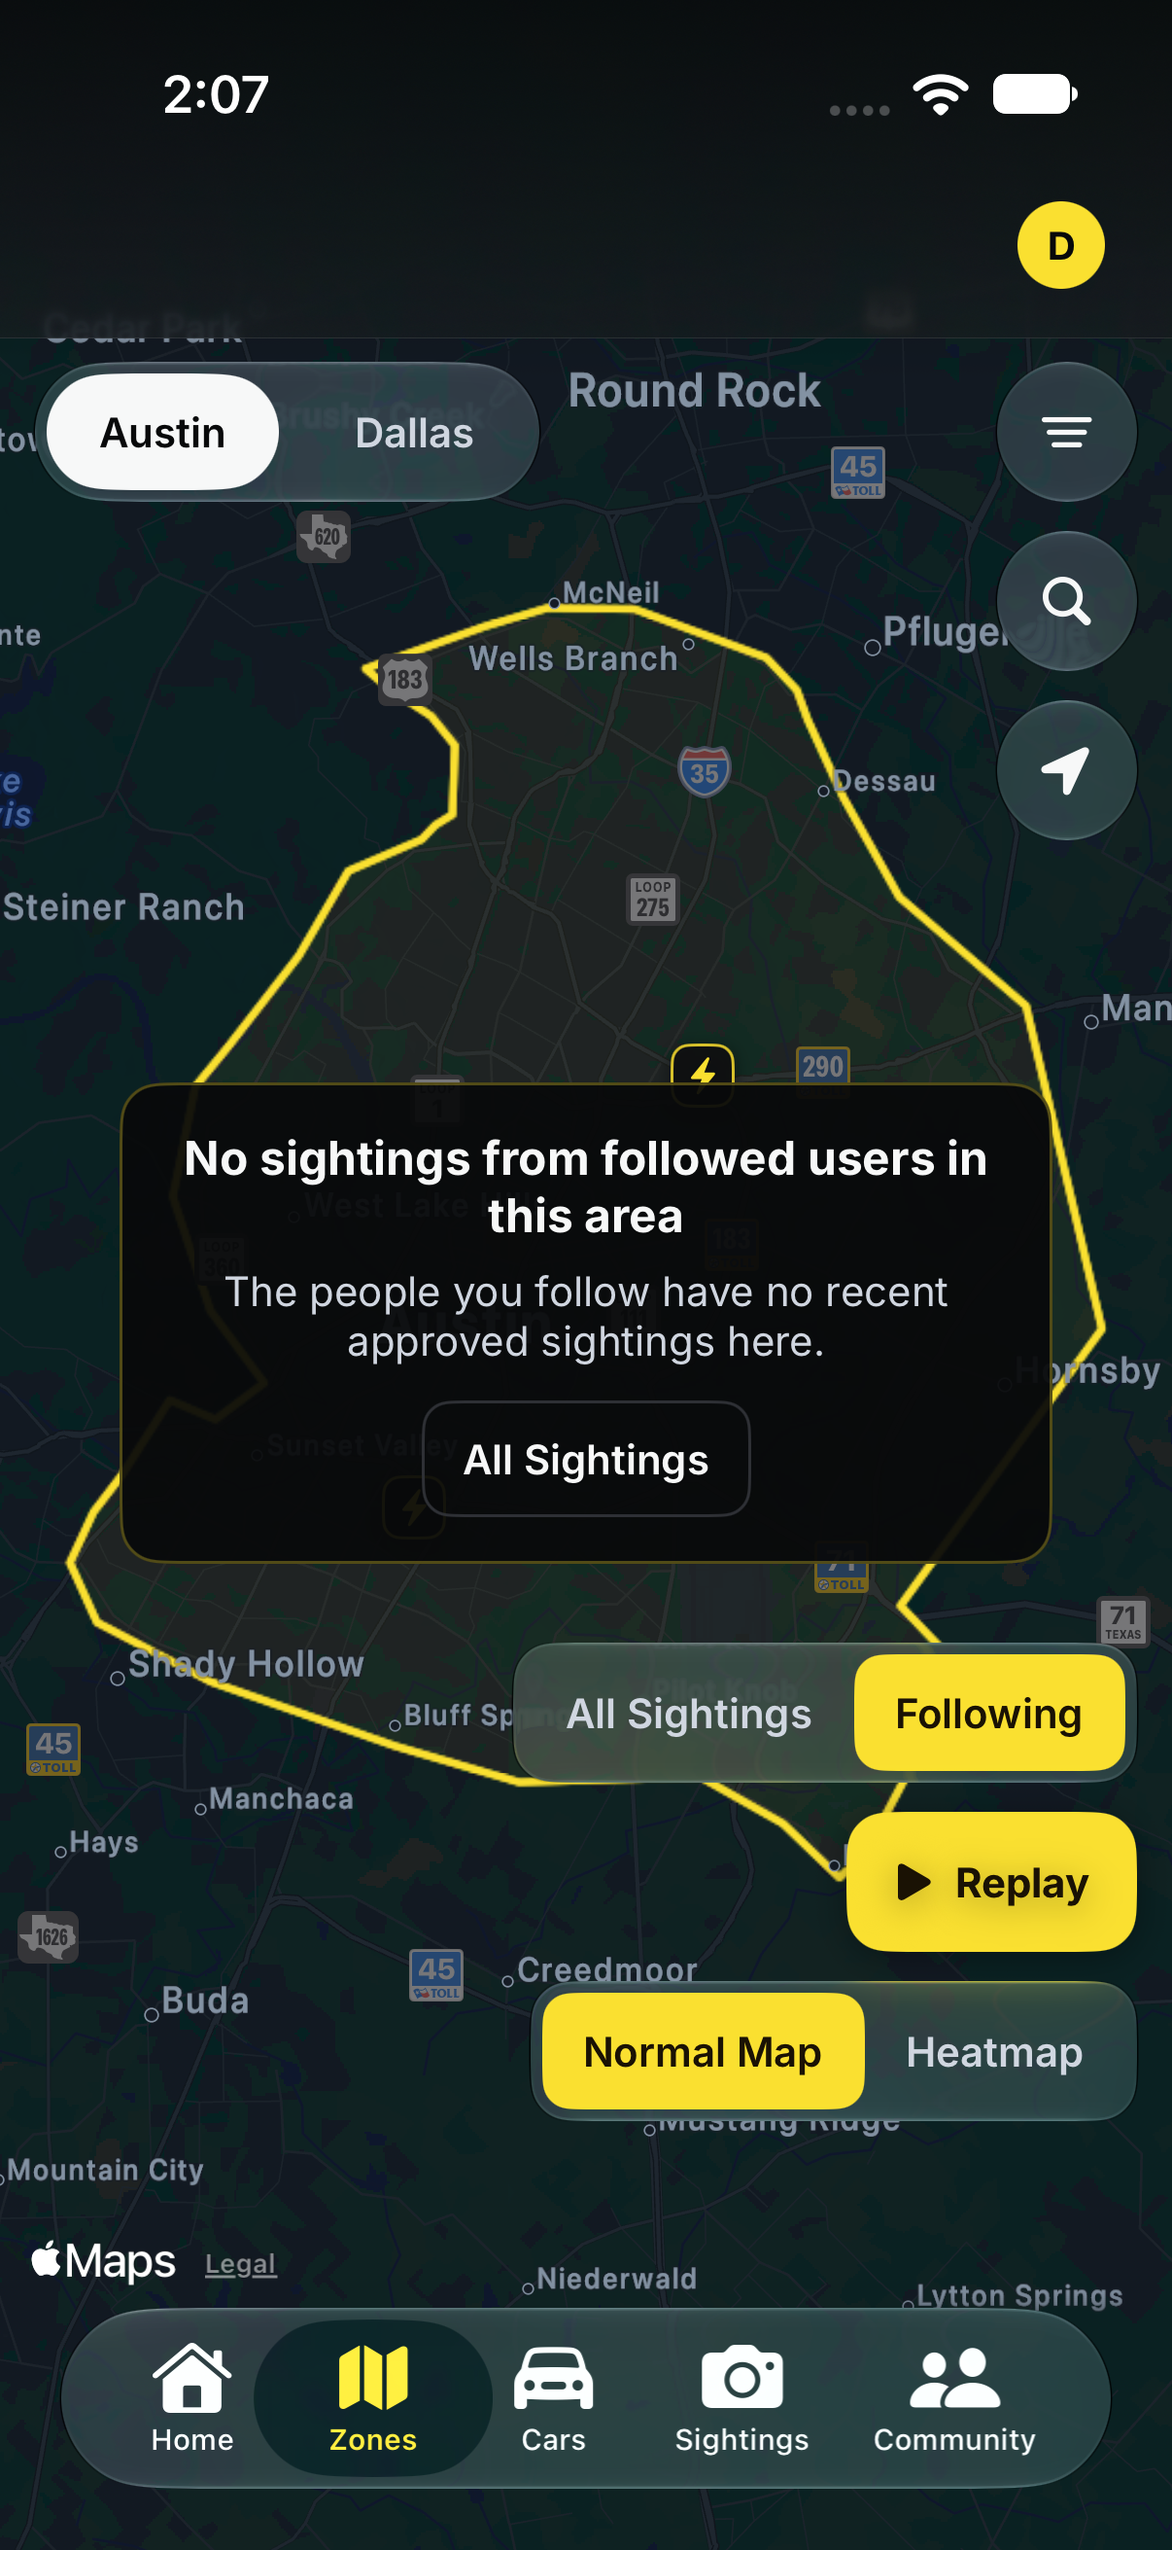
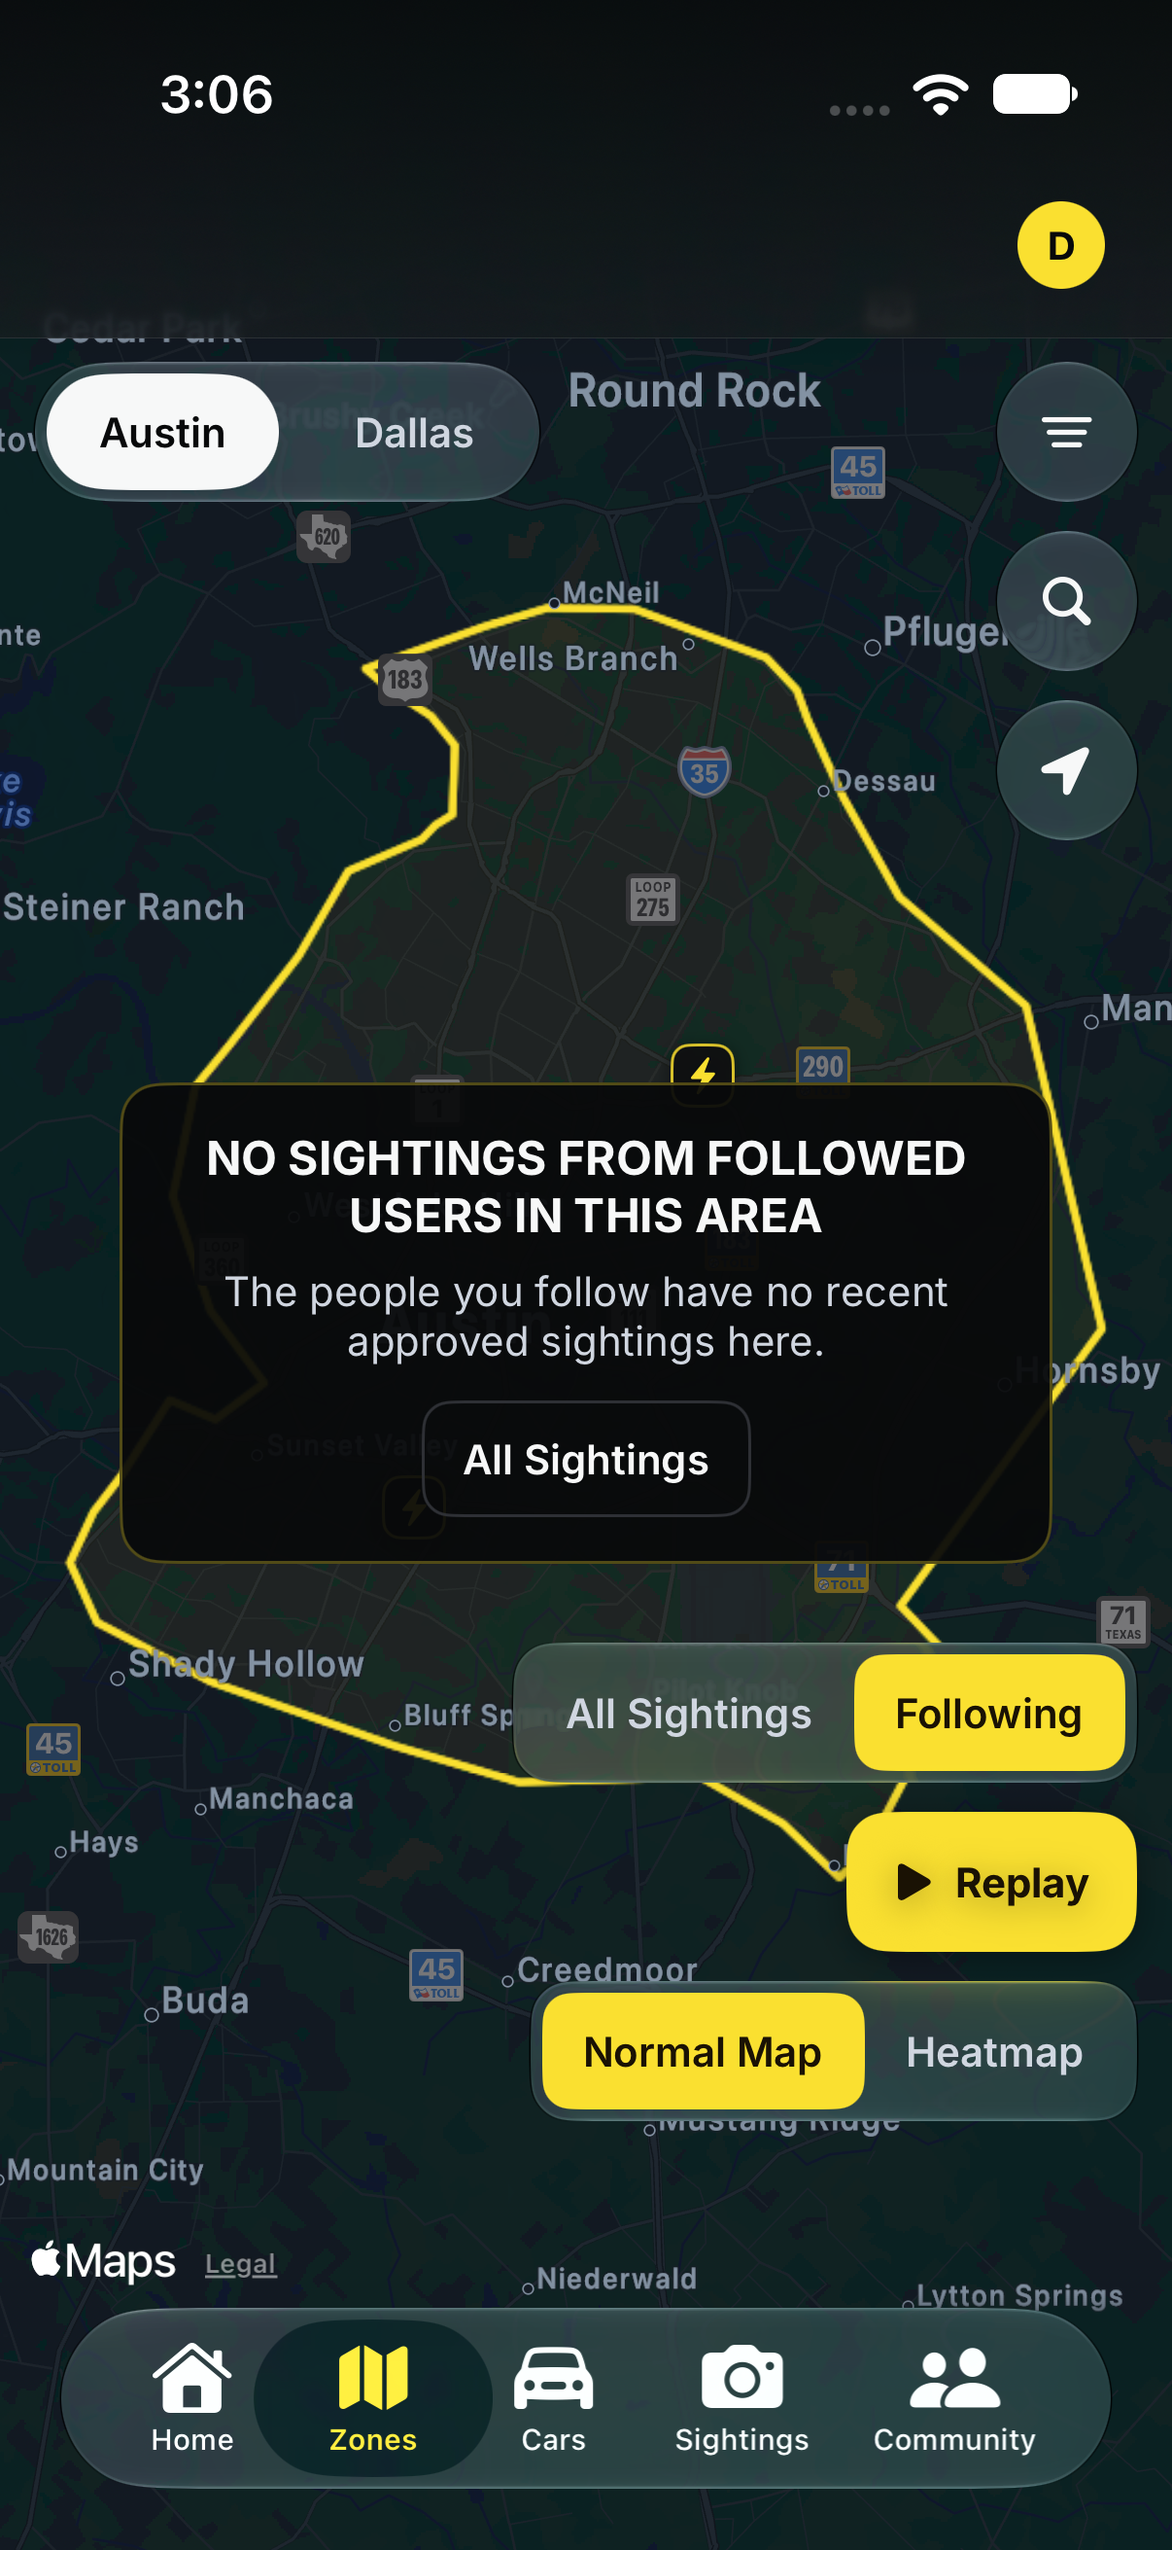
Zones map: one row of controls in the app; all-caps Following headings
All Sightings | Following | Heatmap is now one control beside a compact Replay
button in the iOS app. NO FOLLOWED SPOTTERS YET and NO SIGHTINGS FROM FOLLOWED
USERS IN THIS AREA are in capitals on the website and in the app.

Changed region(s): [[0.1534, 0.4325, 0.8284, 0.4943], [0.1534, 0.0309, 0.2454, 0.0618]]

diff --git a/ios-native/CybercabHunter/Features/Zones/ZonesView.swift b/ios-native/CybercabHunter/Features/Zones/ZonesView.swift
@@ -37,7 +37,7 @@ struct ZonesView: View {
             ZStack(alignment: .top) {
                 ZoneMapView(cityKey: model.city, heatMode: model.mode == .heat, liveDetections: model.source == .following ? [] : (model.live[model.city] ?? []), followingSpots: model.followingSpots,
                             heatPoints: model.heatPoints, cameraDots: model.cameraDots, place: place, locationFix: location.location, recenterID: recenterID, locationTarget: locationTarget,
-                            bottomInset: model.mode == .heat ? (heatExpanded ? 230 : 140) : 130,
+                            bottomInset: model.mode == .heat ? (heatExpanded ? 230 : 140) : 90,
                             topInset: geo.safeAreaInsets.top + 52, selectionActive: selection != nil) { selection = $0 }   // under the status bar, header and the Search button
                     .ignoresSafeArea()
                     .accessibilityIdentifier("zonesMap")
@@ -212,28 +212,6 @@ struct ZonesView: View {
         }
     }
 
-    /// All Sightings | Following: the Normal Map only (a heatmap is camera history).
-    private var sourceToggle: some View {
-        HStack(spacing: 0) {
-            ForEach(ZonesModel.Source.allCases) { option in
-                let on = model.source == option
-                Button { withAnimation(.snappy) { model.source = option } } label: {
-                    Text(option == .all ? "All Sightings" : "Following").font(.inter(13.5, .semibold))
-                        .padding(.horizontal, 14).frame(height: MapControl.height - 8)
-                        .foregroundStyle(on ? Color(hex: 0x1A1204) : Color.chMist)
-                        .background(on ? Color.brandGold : Color.clear, in: .rect(cornerRadius: MapControl.radius - 4))
-                        .contentShape(Rectangle())
-                }
-                .buttonStyle(.plain)
-                .accessibilityAddTraits(on ? .isSelected : [])
-                .accessibilityIdentifier(option == .all ? "mapSourceAll" : "mapSourceFollowing")
-            }
-        }
-        .padding(4)
-        .modifier(GlassBackground(shape: RoundedRectangle(cornerRadius: MapControl.radius)))
-        .sensoryFeedback(.selection, trigger: model.source)
-    }
-
     /// What Following has to say when there is nothing, or something missing, to draw.
     @ViewBuilder private var followingOverlay: some View {
         switch model.following {
@@ -249,11 +227,11 @@ struct ZonesView: View {
             }
         case .loaded(let page):
             if page.followingCount == 0 {
-                followingCard(title: "No followed spotters yet", text: "Follow other Cybercab spotters to see their sightings on this map.") {
+                followingCard(title: "NO FOLLOWED SPOTTERS YET", text: "Follow other Cybercab spotters to see their sightings on this map.") {
                     Button("Find spotters") { router.openCommunity(.leaderboard) }.buttonStyle(ZoneCardButton(gold: true)).accessibilityIdentifier("followingFindSpotters")
                 }
             } else if page.sightings.isEmpty {
-                followingCard(title: "No sightings from followed users in this area",
+                followingCard(title: "NO SIGHTINGS FROM FOLLOWED USERS IN THIS AREA",
                               text: page.unplaced.isEmpty ? "The people you follow have no recent approved sightings here."
                                 : "\(Format.plural(page.unplaced.count, "recent sighting has", "recent sightings have")) no map position, so nothing is shown here.") { EmptyView() }
             } else if !page.unplaced.isEmpty {
@@ -263,7 +241,7 @@ struct ZonesView: View {
                         .font(.inter(12, .medium)).foregroundStyle(Color.chMist)
                         .padding(.horizontal, 12).padding(.vertical, 7)
                         .background(Color.chBackground.opacity(0.92), in: .capsule)
-                        .padding(.bottom, 190)
+                        .padding(.bottom, 130)
                 }
                 .allowsHitTesting(false)
                 .accessibilityIdentifier("followingUnplacedNote")
@@ -292,39 +270,78 @@ struct ZonesView: View {
         .accessibilityIdentifier("followingEmptyCard")
     }
 
+    /// One choice, on one row with Replay: All Sightings (the normal map), Following
+    /// (the normal map, from followed accounts) or Heatmap (camera history).
+    private enum MapView: CaseIterable, Identifiable {
+        case all, following, heat
+        var id: Self { self }
+        var identifier: String {
+            switch self {
+            case .all: "mapSourceAll"
+            case .following: "mapSourceFollowing"
+            case .heat: "heatmapButton"
+            }
+        }
+        func title(short: Bool) -> String {
+            switch self {
+            case .all: short ? "All" : "All Sightings"
+            case .following: "Following"
+            case .heat: "Heatmap"
+            }
+        }
+    }
+
+    private var mapView: MapView { model.mode == .heat ? .heat : model.source == .following ? .following : .all }
+
+    private func choose(_ view: MapView) {
+        withAnimation(.snappy) {
+            model.mode = view == .heat ? .heat : .normal
+            model.source = view == .following ? .following : .all
+        }
+    }
+
+    private func mapViewPicker(short: Bool) -> some View {
+        HStack(spacing: 0) {
+            ForEach(MapView.allCases) { option in
+                let on = mapView == option
+                Button { choose(option) } label: {
+                    Text(option.title(short: short)).font(.inter(13.5, .semibold)).lineLimit(1).fixedSize()
+                        .padding(.horizontal, 12).frame(height: MapControl.height - 8)
+                        .foregroundStyle(on ? Color(hex: 0x1A1204) : Color.chMist)
+                        .background(on ? Color.brandGold : Color.clear, in: .rect(cornerRadius: MapControl.radius - 4))
+                        .contentShape(Rectangle())
+                }
+                .buttonStyle(.plain)
+                .accessibilityLabel(option.title(short: false))
+                .accessibilityAddTraits(on ? .isSelected : [])
+                .accessibilityIdentifier(option.identifier)
+            }
+        }
+        .padding(4)
+        .modifier(GlassBackground(shape: RoundedRectangle(cornerRadius: MapControl.radius)))
+        .sensoryFeedback(.selection, trigger: mapView)
+    }
+
     private var bottomControls: some View {
         VStack(alignment: .trailing, spacing: 10) {
-            if model.mode == .heat { heatPanel } else { sourceToggle }
+            if model.mode == .heat { heatPanel }
             HStack(spacing: 8) {
                 // The map key lives in Zone details only (as on the website).
+                ViewThatFits(in: .horizontal) {
+                    mapViewPicker(short: false)
+                    mapViewPicker(short: true)
+                }
                 Spacer(minLength: 0)
                 NavigationLink(value: ReplayRoute(city: model.city)) {
-                    Label("Replay", systemImage: "play.fill").font(.inter(14, .bold))
-                        .padding(.horizontal, 16).frame(height: MapControl.height)
+                    Image(systemName: "play.fill").font(.system(size: 16, weight: .bold))
+                        .frame(width: MapControl.height, height: MapControl.height)
                         .background(Color.brandGold, in: .rect(cornerRadius: MapControl.radius))
                         .shadow(color: .black.opacity(0.35), radius: 6, y: 2)
                         .foregroundStyle(Color(hex: 0x1A1204))
                 }
+                .accessibilityLabel("Replay")
                 .accessibilityIdentifier("replayButton")
             }
-            HStack(spacing: 0) {
-                ForEach(ZonesModel.Mode.allCases) { m in
-                    let on = model.mode == m
-                    Button { withAnimation(.snappy) { model.mode = m } } label: {
-                        Text(m == .normal ? "Normal Map" : "Heatmap").font(.inter(13.5, .semibold))
-                            .padding(.horizontal, 14).frame(height: MapControl.height - 8)
-                            .foregroundStyle(on ? Color(hex: 0x1A1204) : Color.chMist)
-                            .background(on ? Color.brandGold : Color.clear, in: .rect(cornerRadius: MapControl.radius - 4))
-                            .contentShape(Rectangle())
-                    }
-                    .buttonStyle(.plain)
-                    .accessibilityAddTraits(on ? .isSelected : [])
-                    .accessibilityIdentifier(m == .normal ? "normalMapButton" : "heatmapButton")
-                }
-            }
-            .padding(4)
-            .modifier(GlassBackground(shape: RoundedRectangle(cornerRadius: MapControl.radius)))
-            .sensoryFeedback(.selection, trigger: model.mode)
         }
         .padding(.horizontal, 12)
         .padding(.bottom, 64)   // above the Liquid Glass tab bar

diff --git a/ios-native/CybercabHunterUITests/FollowingMapUITests.swift b/ios-native/CybercabHunterUITests/FollowingMapUITests.swift
@@ -50,6 +50,28 @@ final class FollowingMapUITests: XCTestCase {
         XCTAssertTrue(app.staticTexts["@bob_b"].waitForExistence(timeout: 15), "the link opens the spotter's profile")
     }
 
+    func testOneMapViewControlOnOneRowWithReplay() {
+        let app = openZones(session: "s-alice")
+        let all = app.buttons["mapSourceAll"], following = app.buttons["mapSourceFollowing"], heat = app.buttons["heatmapButton"], replay = app.buttons["replayButton"]
+        XCTAssertTrue(all.waitForExistence(timeout: 30))
+        XCTAssertFalse(app.buttons["normalMapButton"].exists, "no second set of buttons")
+        XCTAssertEqual(all.frame.midY, replay.frame.midY, accuracy: 1, "one row")
+        XCTAssertEqual(following.frame.midY, heat.frame.midY, accuracy: 1)
+        XCTAssertLessThanOrEqual(heat.frame.maxX, replay.frame.minX, "Replay sits beside the choice, not over it")
+        XCTAssertLessThanOrEqual(replay.frame.maxX, app.windows.firstMatch.frame.maxX)
+        XCTAssertEqual(replay.frame.height, 48, accuracy: 1)
+        saveShot(app, "zones-controls-all")
+        heat.tap()
+        XCTAssertTrue(heat.isSelected && !all.isSelected && !following.isSelected, "one choice at a time")
+        saveShot(app, "zones-controls-heat")
+        following.tap()
+        XCTAssertTrue(following.isSelected && !heat.isSelected)
+        XCTAssertTrue(any(app, "followingMarker").waitForExistence(timeout: 20), "Following from Heatmap goes straight back to the map")
+        saveShot(app, "zones-controls-following")
+        all.tap()
+        XCTAssertTrue(all.isSelected)
+    }
+
     func testSwitchingBackHidesFollowingMarkers() {
         let app = openZones(session: "s-alice")
         XCTAssertTrue(app.buttons["mapSourceFollowing"].waitForExistence(timeout: 30))
@@ -99,7 +121,7 @@ final class FollowingMapUITests: XCTestCase {
         XCTAssertTrue(app.buttons["mapSourceFollowing"].waitForExistence(timeout: 30))
         app.buttons["mapSourceFollowing"].tap()
         XCTAssertTrue(any(app, "followingEmptyTitle").waitForExistence(timeout: 15))
-        XCTAssertEqual(any(app, "followingEmptyTitle").label, "No followed spotters yet")
+        XCTAssertEqual(any(app, "followingEmptyTitle").label, "NO FOLLOWED SPOTTERS YET")
         XCTAssertTrue(any(app, "followingFindSpotters").exists)
         saveShot(app, "following-map-nobody")
     }
@@ -110,7 +132,7 @@ final class FollowingMapUITests: XCTestCase {
         XCTAssertTrue(dave.buttons["mapSourceFollowing"].waitForExistence(timeout: 30))
         dave.buttons["mapSourceFollowing"].tap()
         XCTAssertTrue(any(dave, "followingEmptyTitle").waitForExistence(timeout: 15))
-        XCTAssertEqual(any(dave, "followingEmptyTitle").label, "No sightings from followed users in this area")
+        XCTAssertEqual(any(dave, "followingEmptyTitle").label, "NO SIGHTINGS FROM FOLLOWED USERS IN THIS AREA")
         XCTAssertFalse(any(dave, "followingMarker").exists)
         saveShot(dave, "following-map-no-sightings")
         dave.terminate()

diff --git a/public/js/zones-following.js b/public/js/zones-following.js
@@ -140,14 +140,14 @@ window.CCCZonesFollowing = (function () {
         return;
       }
       if (data.following_count === 0) {
-        showCard('No followed spotters yet', 'Follow other Cybercab spotters to see their sightings on this map.',
+        showCard('NO FOLLOWED SPOTTERS YET', 'Follow other Cybercab spotters to see their sightings on this map.',
           ['<a class="zf-btn is-gold" href="/community?view=leaderboard">Find spotters</a>', BACK]);
         return;
       }
       const groups = groupSightings(data.sightings.filter(s => Number.isFinite(s.lat) && Number.isFinite(s.lng)));
       const unplaced = Array.isArray(data.unplaced) ? data.unplaced.length : 0;
       if (!groups.length && !unplaced) {
-        showCard('No sightings from followed users in this area', 'The people you follow have no recent approved sightings here.', [BACK]);
+        showCard('NO SIGHTINGS FROM FOLLOWED USERS IN THIS AREA', 'The people you follow have no recent approved sightings here.', [BACK]);
         return;
       }
       features.setFollowingSpots(groups.map(g => {
@@ -156,7 +156,7 @@ window.CCCZonesFollowing = (function () {
         return { id: g.id, lat: g.lat, lng: g.lng, html: popupHtml(g), name: s.plate || s.location || who, label: `Cybercab spotted by ${who}${s.location ? ' at ' + s.location : ''}` };
       }));
       if (!groups.length) {
-        showCard('No sightings from followed users in this area', `${unplaced === 1 ? '1 recent sighting has' : unplaced + ' recent sightings have'} no map position, so ${unplaced === 1 ? "it isn't" : "they aren't"} shown here.`,
+        showCard('NO SIGHTINGS FROM FOLLOWED USERS IN THIS AREA', `${unplaced === 1 ? '1 recent sighting has' : unplaced + ' recent sightings have'} no map position, so ${unplaced === 1 ? "it isn't" : "they aren't"} shown here.`,
           [`<a class="zf-btn" href="/sightings?city=${encodeURIComponent(city)}">Open Sightings</a>`, BACK]);
         return;
       }

diff --git a/ios-native/CybercabHunterUITests/PolishUITests.swift b/ios-native/CybercabHunterUITests/PolishUITests.swift
@@ -112,7 +112,7 @@ final class PolishUITests: XCTestCase {
         app.buttons["heatPanelCollapse"].tap()
         XCTAssertTrue(expand.waitForExistence(timeout: 3))
         XCTAssertTrue(expand.label.contains("30 days"), expand.label)
-        app.buttons["normalMapButton"].tap()
+        app.buttons["mapSourceAll"].tap()
 
         app.buttons["replayButton"].tap()
         XCTAssertTrue(app.staticTexts["replayCount"].waitForExistence(timeout: 20))

diff --git a/ios-native/CybercabHunterUITests/ZonesUITests.swift b/ios-native/CybercabHunterUITests/ZonesUITests.swift
@@ -64,7 +64,7 @@ final class ZonesUITests: XCTestCase {
         XCTAssertTrue(expand.label.contains("all"), "still the All range: \(expand.label)")
         XCTAssertTrue(app.buttons["heatmapButton"].isSelected)
         assertNative(app)
-        app.buttons["normalMapButton"].tap()
+        app.buttons["mapSourceAll"].tap()
 
         // Replay.
         app.buttons["replayButton"].tap()

diff --git a/ios-native/CybercabHunterUITests/ZonesStyleUITests.swift b/ios-native/CybercabHunterUITests/ZonesStyleUITests.swift
@@ -57,6 +57,6 @@ final class ZonesStyleUITests: XCTestCase {
         XCTAssertTrue(app.buttons["heatPanelExpand"].waitForExistence(timeout: 10))
         sleep(4)
         shot(app, "zones-heatmap")
-        app.buttons["normalMapButton"].tap()
+        app.buttons["mapSourceAll"].tap()
     }
 }

diff --git a/public/infrastructure.html b/public/infrastructure.html
@@ -404,7 +404,7 @@
 <script src="js/austin-map.js?v=12"></script>
 <script src="js/map-search.js?v=3"></script>
 <script src="js/zones-heatmap.js?v=4"></script>
-<script src="js/zones-following.js?v=1"></script>
+<script src="js/zones-following.js?v=2"></script>
 <script>
   CCC.init();
 
